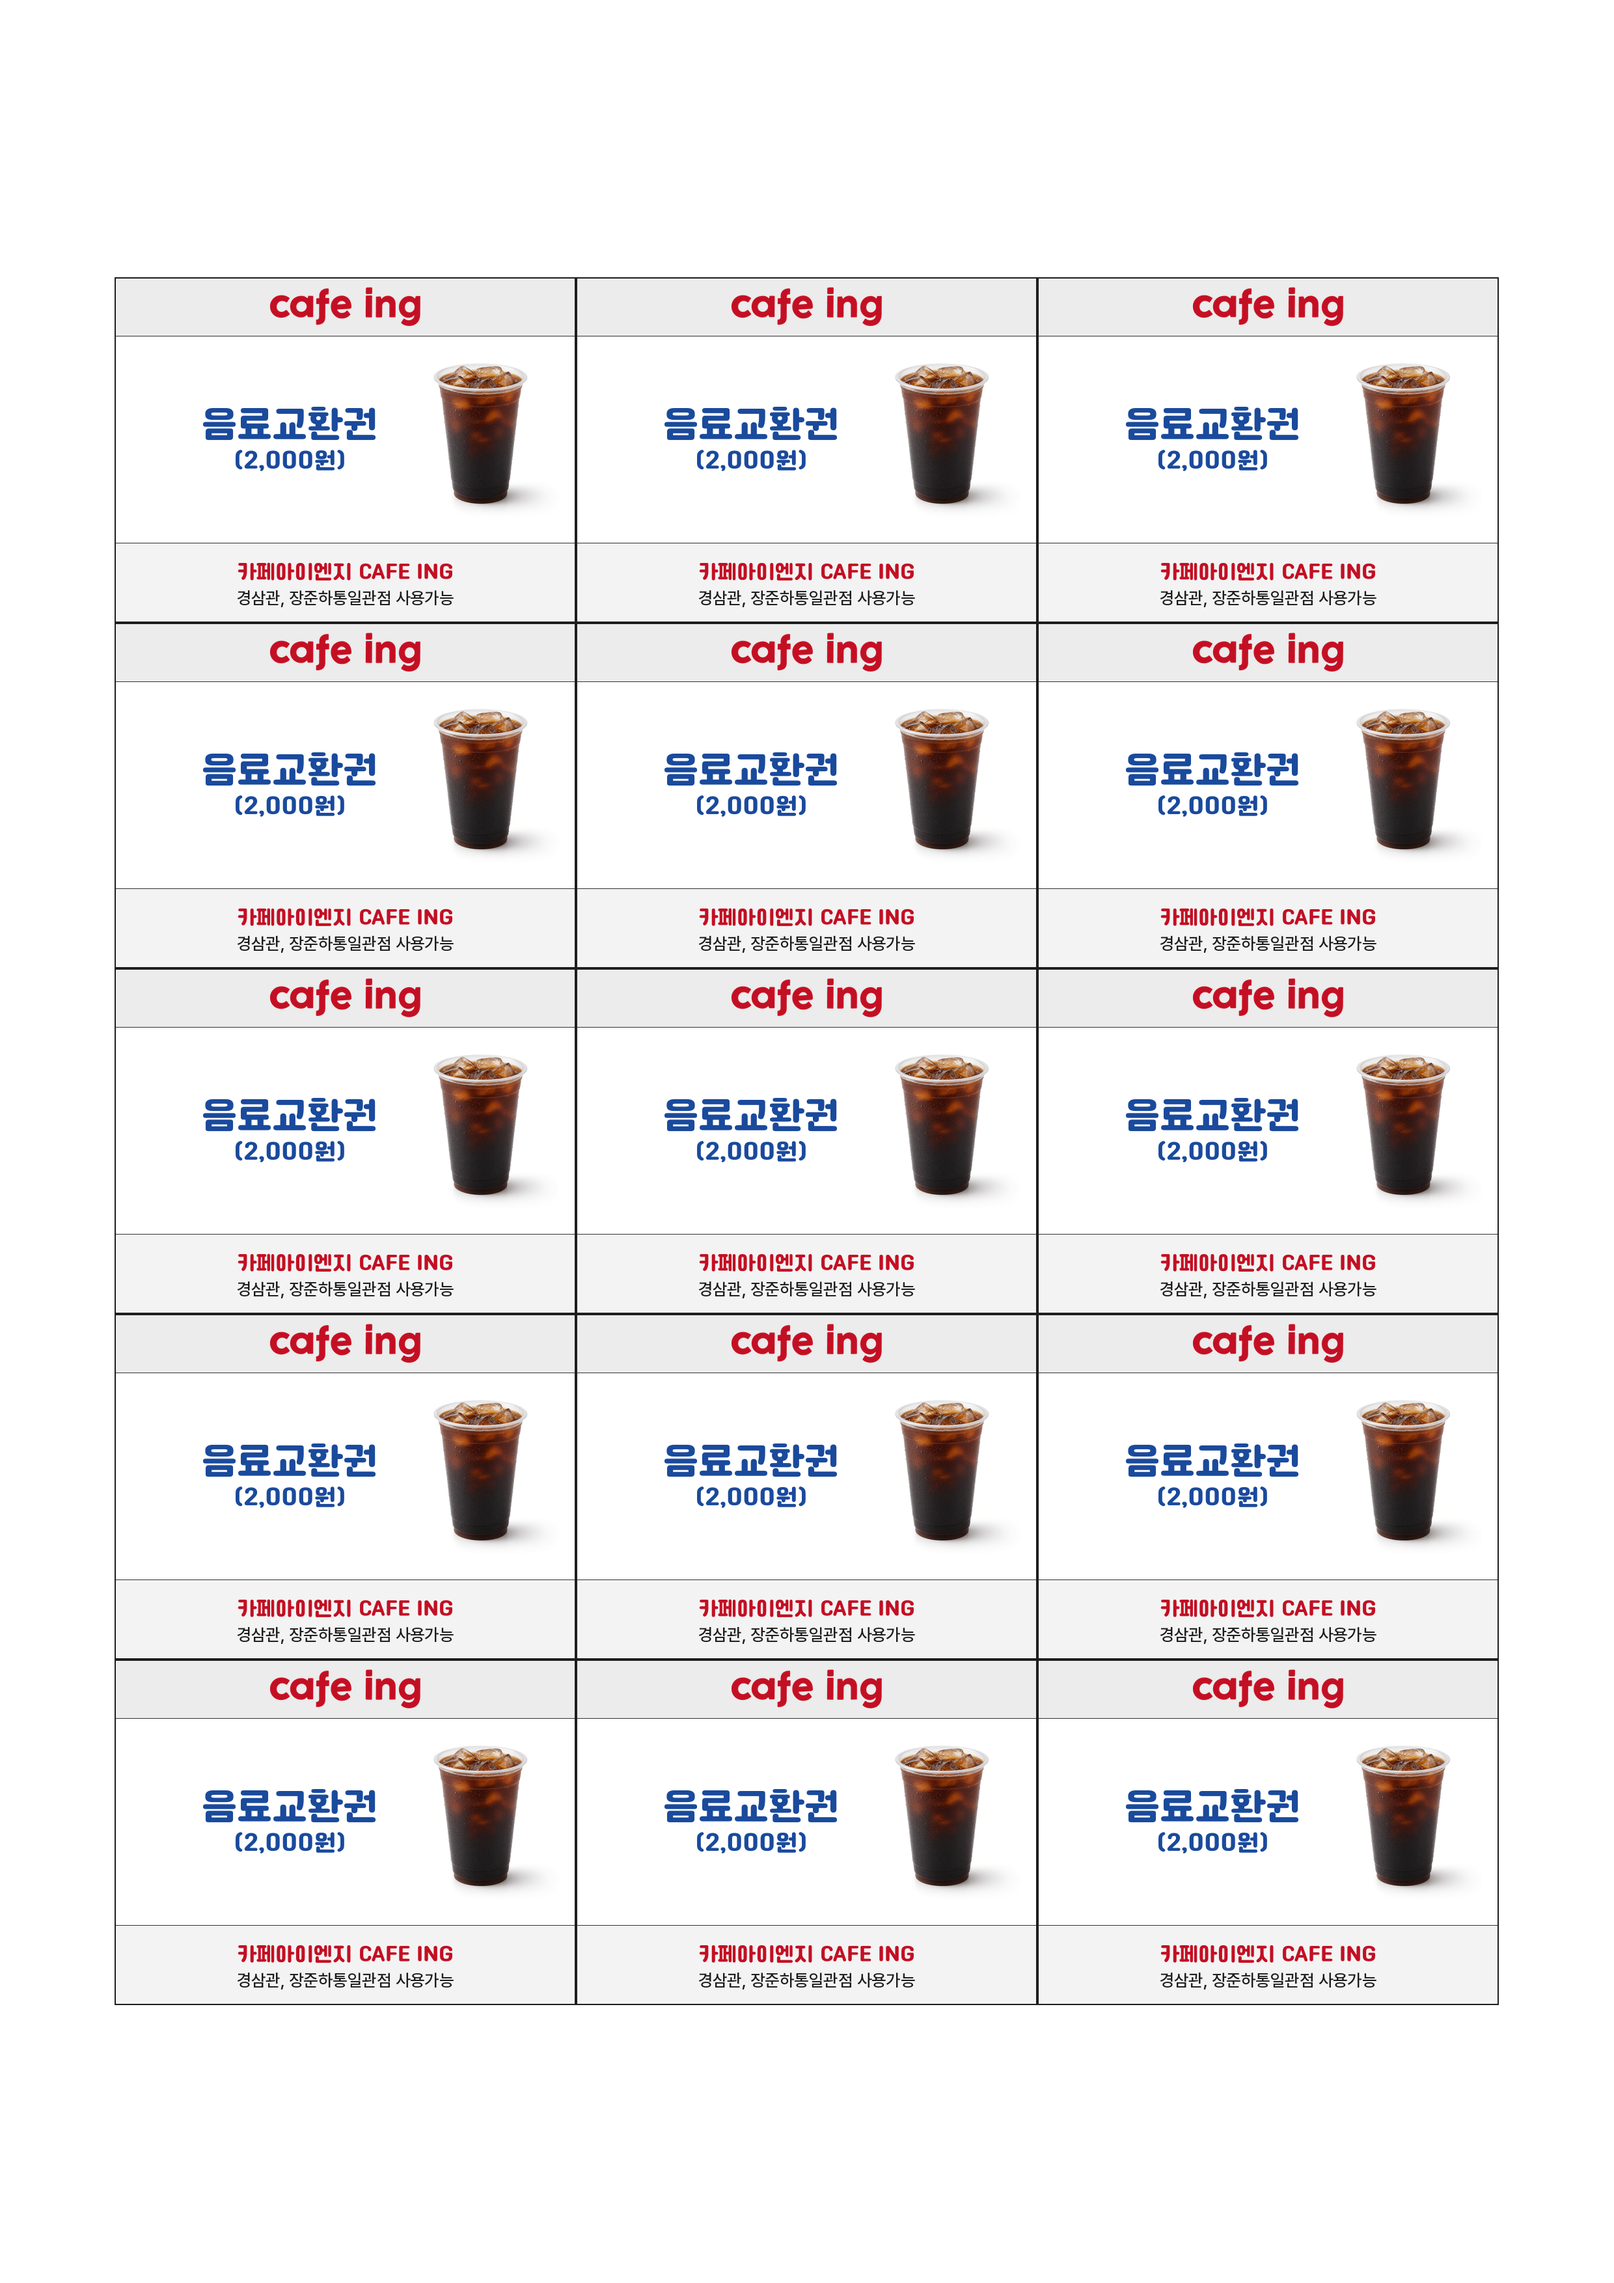
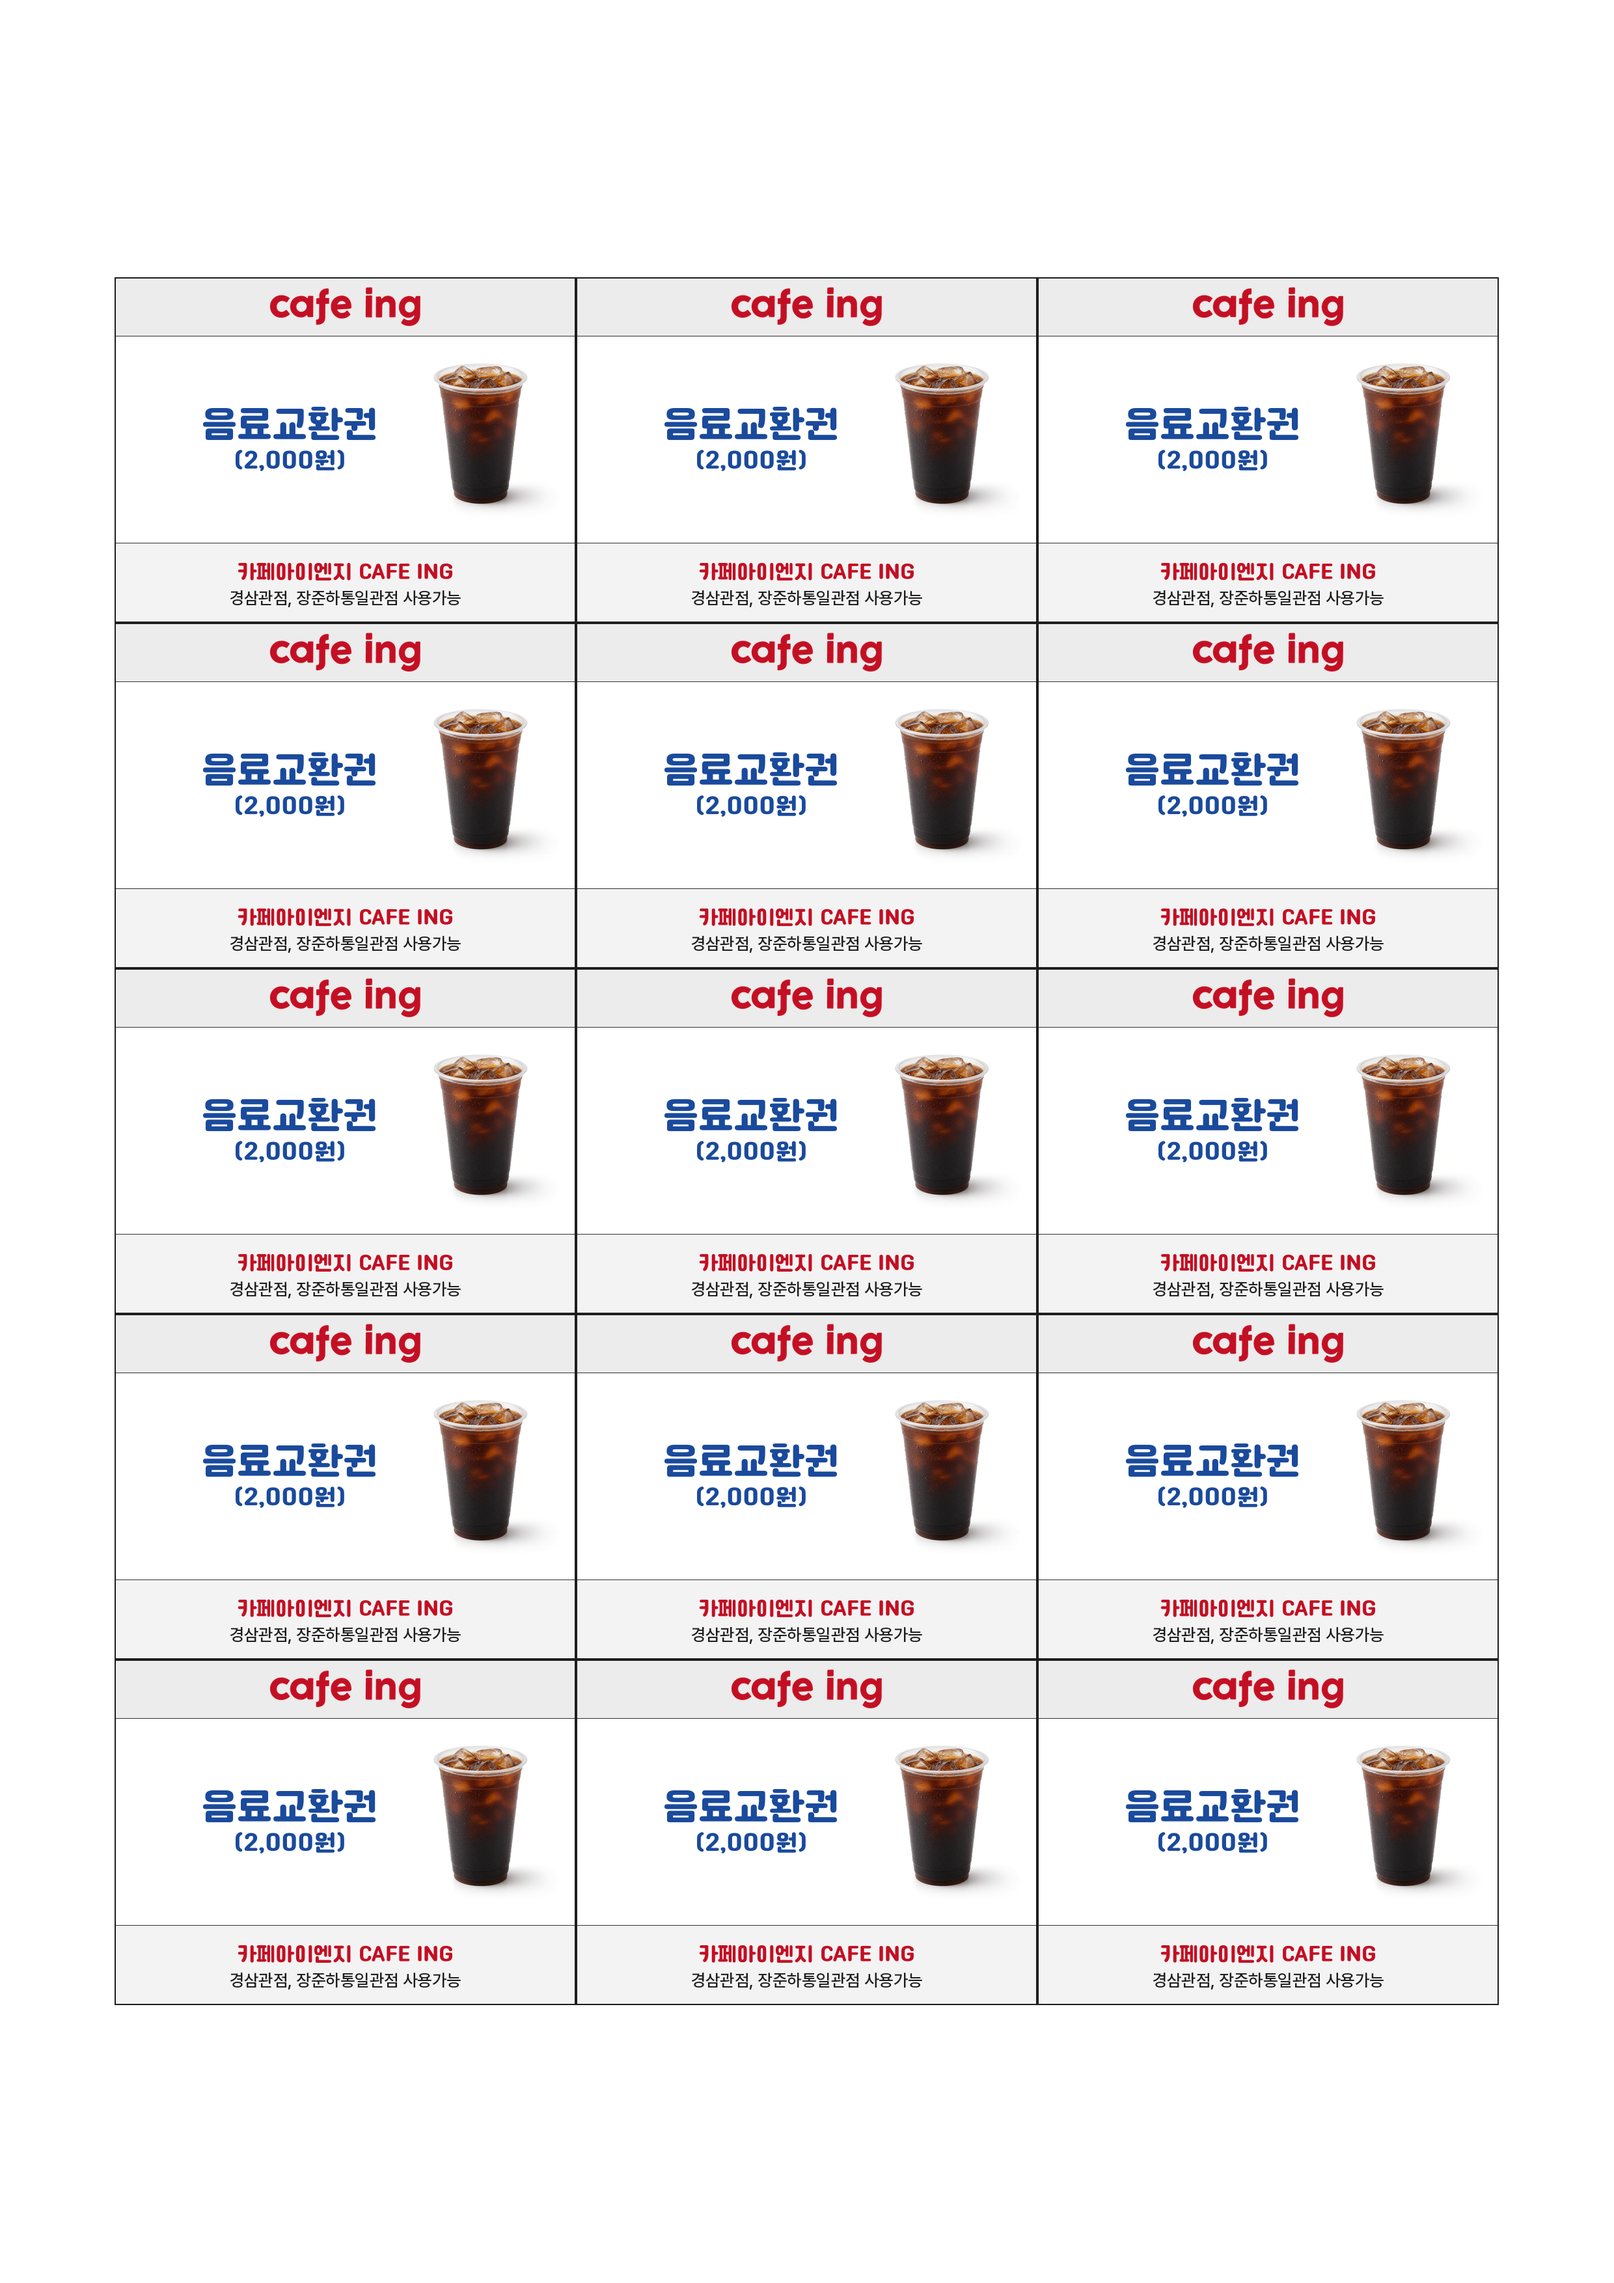
Change footer location text to 경삼관점.
Update the usable-store line so both branches are written as 점.

diff --git a/cafe-ing-coupon/index.html b/cafe-ing-coupon/index.html
@@ -165,7 +165,7 @@
         </div>
         <footer class="footer">
           <div class="brand">카페아이엔지 CAFE ING</div>
-          <div class="place">경삼관, 장준하통일관점 사용가능</div>
+          <div class="place">경삼관점, 장준하통일관점 사용가능</div>
         </footer>
       </article>
     
@@ -180,7 +180,7 @@
         </div>
         <footer class="footer">
           <div class="brand">카페아이엔지 CAFE ING</div>
-          <div class="place">경삼관, 장준하통일관점 사용가능</div>
+          <div class="place">경삼관점, 장준하통일관점 사용가능</div>
         </footer>
       </article>
     
@@ -195,7 +195,7 @@
         </div>
         <footer class="footer">
           <div class="brand">카페아이엔지 CAFE ING</div>
-          <div class="place">경삼관, 장준하통일관점 사용가능</div>
+          <div class="place">경삼관점, 장준하통일관점 사용가능</div>
         </footer>
       </article>
     
@@ -210,7 +210,7 @@
         </div>
         <footer class="footer">
           <div class="brand">카페아이엔지 CAFE ING</div>
-          <div class="place">경삼관, 장준하통일관점 사용가능</div>
+          <div class="place">경삼관점, 장준하통일관점 사용가능</div>
         </footer>
       </article>
     
@@ -225,7 +225,7 @@
         </div>
         <footer class="footer">
           <div class="brand">카페아이엔지 CAFE ING</div>
-          <div class="place">경삼관, 장준하통일관점 사용가능</div>
+          <div class="place">경삼관점, 장준하통일관점 사용가능</div>
         </footer>
       </article>
     
@@ -240,7 +240,7 @@
         </div>
         <footer class="footer">
           <div class="brand">카페아이엔지 CAFE ING</div>
-          <div class="place">경삼관, 장준하통일관점 사용가능</div>
+          <div class="place">경삼관점, 장준하통일관점 사용가능</div>
         </footer>
       </article>
     
@@ -255,7 +255,7 @@
         </div>
         <footer class="footer">
           <div class="brand">카페아이엔지 CAFE ING</div>
-          <div class="place">경삼관, 장준하통일관점 사용가능</div>
+          <div class="place">경삼관점, 장준하통일관점 사용가능</div>
         </footer>
       </article>
     
@@ -270,7 +270,7 @@
         </div>
         <footer class="footer">
           <div class="brand">카페아이엔지 CAFE ING</div>
-          <div class="place">경삼관, 장준하통일관점 사용가능</div>
+          <div class="place">경삼관점, 장준하통일관점 사용가능</div>
         </footer>
       </article>
     
@@ -285,7 +285,7 @@
         </div>
         <footer class="footer">
           <div class="brand">카페아이엔지 CAFE ING</div>
-          <div class="place">경삼관, 장준하통일관점 사용가능</div>
+          <div class="place">경삼관점, 장준하통일관점 사용가능</div>
         </footer>
       </article>
     
@@ -300,7 +300,7 @@
         </div>
         <footer class="footer">
           <div class="brand">카페아이엔지 CAFE ING</div>
-          <div class="place">경삼관, 장준하통일관점 사용가능</div>
+          <div class="place">경삼관점, 장준하통일관점 사용가능</div>
         </footer>
       </article>
     
@@ -315,7 +315,7 @@
         </div>
         <footer class="footer">
           <div class="brand">카페아이엔지 CAFE ING</div>
-          <div class="place">경삼관, 장준하통일관점 사용가능</div>
+          <div class="place">경삼관점, 장준하통일관점 사용가능</div>
         </footer>
       </article>
     
@@ -330,7 +330,7 @@
         </div>
         <footer class="footer">
           <div class="brand">카페아이엔지 CAFE ING</div>
-          <div class="place">경삼관, 장준하통일관점 사용가능</div>
+          <div class="place">경삼관점, 장준하통일관점 사용가능</div>
         </footer>
       </article>
     
@@ -345,7 +345,7 @@
         </div>
         <footer class="footer">
           <div class="brand">카페아이엔지 CAFE ING</div>
-          <div class="place">경삼관, 장준하통일관점 사용가능</div>
+          <div class="place">경삼관점, 장준하통일관점 사용가능</div>
         </footer>
       </article>
     
@@ -360,7 +360,7 @@
         </div>
         <footer class="footer">
           <div class="brand">카페아이엔지 CAFE ING</div>
-          <div class="place">경삼관, 장준하통일관점 사용가능</div>
+          <div class="place">경삼관점, 장준하통일관점 사용가능</div>
         </footer>
       </article>
     
@@ -375,7 +375,7 @@
         </div>
         <footer class="footer">
           <div class="brand">카페아이엔지 CAFE ING</div>
-          <div class="place">경삼관, 장준하통일관점 사용가능</div>
+          <div class="place">경삼관점, 장준하통일관점 사용가능</div>
         </footer>
       </article>
     

diff --git a/cafe-ing-coupon/generate.py b/cafe-ing-coupon/generate.py
@@ -106,7 +106,7 @@ def draw_coupon_pdf(c: canvas.Canvas, x: float, y: float, drink: ImageReader, lo
 
     c.setFillColorRGB(*rgb(INK))
     c.setFont("Body", 6.25)
-    c.drawCentredString(x + w / 2, y + 3.15 * mm, "경삼관, 장준하통일관점 사용가능")
+    c.drawCentredString(x + w / 2, y + 3.15 * mm, "경삼관점, 장준하통일관점 사용가능")
 
     # middle: title + price vertically centered with the drink
     body_top = y + h - header_h
@@ -247,7 +247,7 @@ def render_coupon_png(
     img.paste(drink, (dx, dy))
 
     center_text(BRAND_KO, display_brand, h - footer_h + footer_h * 0.36, RED)
-    center_text("경삼관, 장준하통일관점 사용가능", body_place, h - footer_h + footer_h * 0.70, INK)
+    center_text("경삼관점, 장준하통일관점 사용가능", body_place, h - footer_h + footer_h * 0.70, INK)
     return img
 
 
@@ -443,7 +443,7 @@ def coupon_html() -> str:
         </div>
         <footer class="footer">
           <div class="brand">카페아이엔지 CAFE ING</div>
-          <div class="place">경삼관, 장준하통일관점 사용가능</div>
+          <div class="place">경삼관점, 장준하통일관점 사용가능</div>
         </footer>
       </article>
     """

diff --git a/cafe-ing-coupon/README.md b/cafe-ing-coupon/README.md
@@ -7,7 +7,7 @@
 | 상단 | cafe ing 로고 이미지 |
 | 중단 | 음료교환권 + **(2,000원)** (세로 가운데) + 음료 사진 |
 | 하단 1줄 | 카페아이엔지 CAFE ING |
-| 하단 2줄 | 경삼관, 장준하통일관점 사용가능 |
+| 하단 2줄 | 경삼관점, 장준하통일관점 사용가능 |
 | 삭제 | 유효기간, 하단 우측 로고 |
 | 1매 크기 | **가로 60mm × 세로 45mm** |
 | 인쇄 | **A4 용지 15매** (3열 × 5행) |
